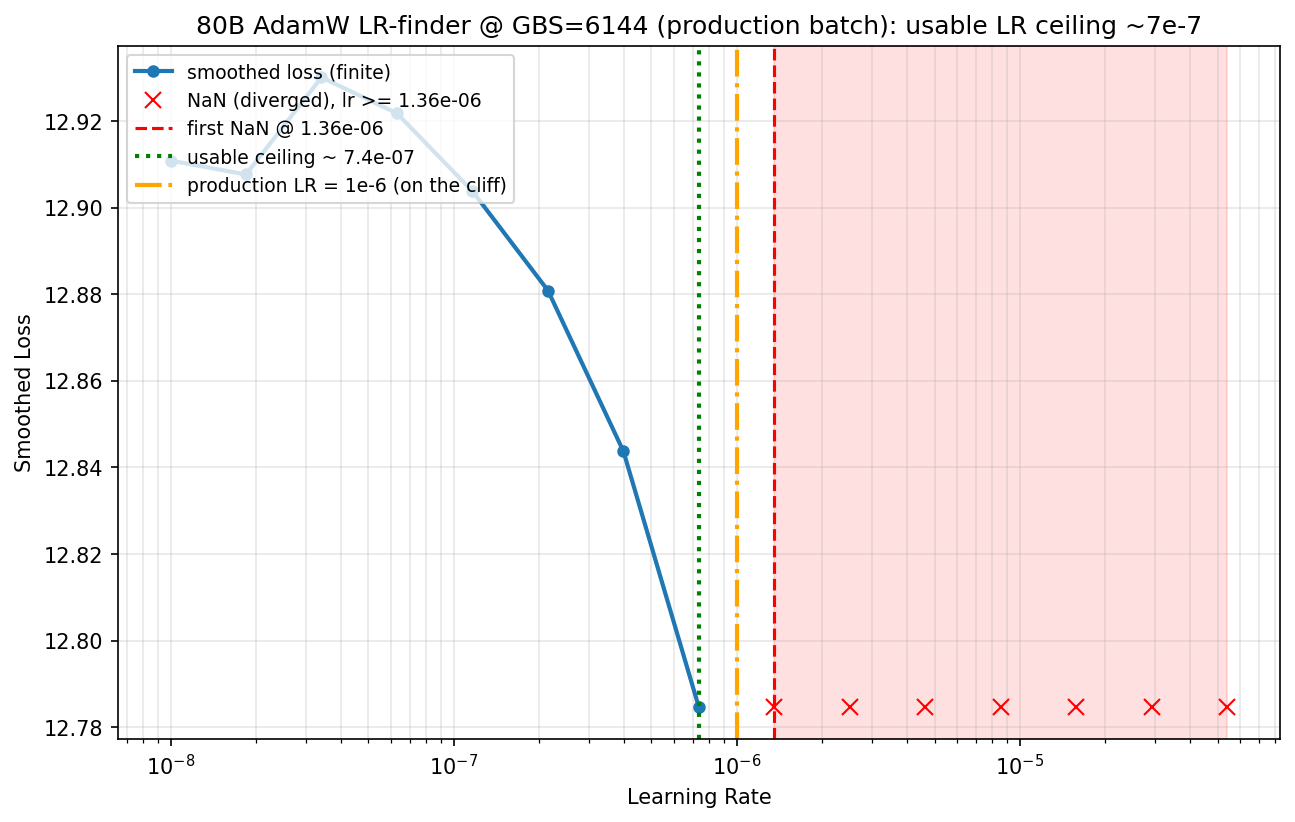
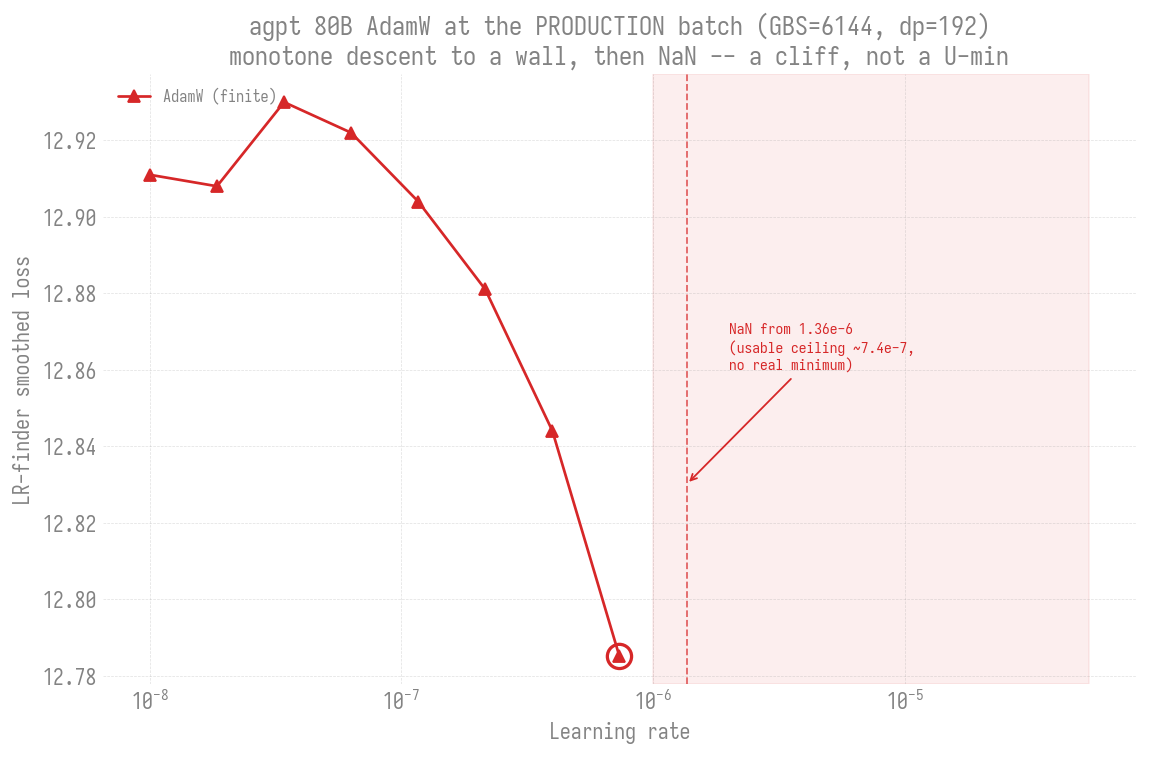
docs(ezpz/lr-finder/80b): house-style the AdamW GBS=6144 cliff figure
sunspot_80b_gbs6144_adamw.png was an early hand-built matplotlib figure
(predated plot_lr_trend.py + apply_style), so it was the one remaining
unstyled CURRENT figure. Added plot_80b_adamw_cliff() to regenerate it
through the house stylesheet (ambivalent + Iosevka), reusing the same
dated-record curve. Improvement over the original: the NaN region is shaded
with a dashed onset line at 1.36e-6 and the last-finite point circled, so the
cliff is explicit (the original/auto lr_vs_loss.png silently dropped the NaN
points). README reference unchanged (same filename).

Note: the aurora/polaris/sunspot *_2b/_20b/_80b April finder figures remain
raw-style (historical, generated in a different env; plot_lr_finder.py now
uses apply_style so any future regen is styled).

diff --git a/torchtitan/experiments/ezpz/scripts/plot_lr_trend.py b/torchtitan/experiments/ezpz/scripts/plot_lr_trend.py
@@ -354,6 +354,42 @@ def plot_80b_all_optimizers(out: Path) -> None:
     print("wrote", out)
 
 
+def plot_80b_adamw_cliff(out: Path) -> None:
+    """AdamW-only GBS=6144 cliff (styled rebuild of the original hand-made
+    sunspot_80b_gbs6144_adamw.png). The live CSV was overwritten by trend
+    probes, so the curve is the dated-record values: 8 finite points then NaN
+    from 1.36e-6 (drawn as a shaded NaN region, not dropped, so the cliff is
+    explicit -- unlike the finder's auto lr_vs_loss.png which silently drops
+    the NaN points)."""
+    lr = [1.0e-8, 1.848e-8, 3.415e-8, 6.31e-8, 1.166e-7, 2.154e-7,
+          3.981e-7, 7.356e-7]
+    loss = [12.911, 12.908, 12.930, 12.922, 12.904, 12.881, 12.844, 12.785]
+    nan_lr = [1.359e-6, 2.512e-6, 4.642e-6, 8.577e-6, 1.585e-5, 2.929e-5,
+              5.412e-5]  # all NaN
+    fig, ax = plt.subplots(figsize=(9, 6))
+    ax.plot(lr, loss, "-^", ms=7, color="#d62728", zorder=4,
+            label="AdamW (finite)")
+    ax.scatter([7.356e-7], [12.785], s=180, facecolors="none",
+               edgecolors="#d62728", linewidths=1.8, zorder=5)
+    # shade the NaN region so the cliff is explicit
+    ax.axvspan(1.0e-6, max(nan_lr), color="#d62728", alpha=0.08, zorder=0)
+    ax.axvline(1.359e-6, color="#d62728", ls="--", lw=1, alpha=0.7, zorder=1)
+    ax.annotate("NaN from 1.36e-6\n(usable ceiling ~7.4e-7,\nno real minimum)",
+                xy=(1.359e-6, 12.83), xytext=(2.0e-6, 12.86), fontsize=8.5,
+                color="#d62728",
+                arrowprops=dict(arrowstyle="->", color="#d62728"))
+    ax.set_xscale("log")
+    ax.set_xlabel("Learning rate")
+    ax.set_ylabel("LR-finder smoothed loss")
+    ax.set_title("agpt 80B AdamW at the PRODUCTION batch (GBS=6144, dp=192)\n"
+                 "monotone descent to a wall, then NaN -- a cliff, not a U-min")
+    ax.legend(fontsize=9, loc="upper left")
+    fig.tight_layout()
+    fig.savefig(out, dpi=130, bbox_inches="tight")
+    plt.close(fig)
+    print("wrote", out)
+
+
 def plot_ceiling_overlay_2b_vs_80b(out: Path) -> None:
     b2 = [(192, 8.58e-3), (384, 1.585e-2), (768, 1.585e-2), (1536, 8.58e-3),
           (3072, 8.58e-3), (6144, 8.58e-3), (12288, 1.585e-2), (24576, 1.585e-2)]
@@ -444,5 +480,6 @@ if __name__ == "__main__":
     plot_2b_all_optimizers(
         DOCS / "2b/figures/lr_finder_2b_gbs12288_all_optimizers.png", 12288)
     plot_80b_all_optimizers(DOCS / "80b/figures/sunspot_80b_gbs6144_all_optimizers.png")
+    plot_80b_adamw_cliff(DOCS / "80b/figures/sunspot_80b_gbs6144_adamw.png")
     plot_ceiling_overlay_2b_vs_80b(DOCS / "2b/figures/lr_ceiling_vs_gbs_2b_vs_80b.png")
     plot_80b_ceiling_vs_gbs(DOCS / "80b/figures/sunspot_80b_adamw_lr_ceiling_vs_gbs.png")
